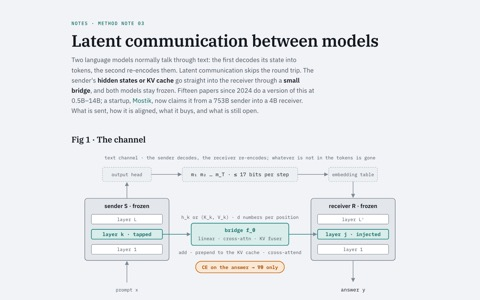
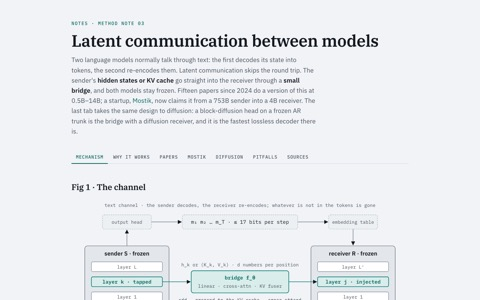
Latent communication note: split into tabs, add diffusion tab (DFlash, DFlare, AR-to-diffusion conversion)

diff --git a/notes/latent-communication.html b/notes/latent-communication.html
@@ -9,9 +9,10 @@
 <link rel="preconnect" href="https://fonts.gstatic.com" crossorigin>
 <link rel="stylesheet" href="https://fonts.googleapis.com/css2?family=IBM+Plex+Mono:wght@400;500;600&family=IBM+Plex+Sans:wght@400;500;600;700&family=IBM+Plex+Serif:wght@600&display=swap">
 <!--
-  Method note 03 — follows the template comment in mtp.html.
-  header → Fig 1 (the channel) → the math in three lines → why it is kept → Fig 2 (lineage) →
-  the papers (table) → Mostik against the literature → pitfalls → sources.
+  Method note 03 — follows the template comment in mtp.html, but split into tabs (.tabs/.panel in note.css;
+  the hash selects the tab, so /notes/latent-communication.html#diffusion deep-links).
+  header → tabs: mechanism (Fig 1 + math) · why it works (kept + Fig 2) · papers (table) · Mostik · diffusion (Fig 3 + table) · pitfalls · sources.
+  One shared <svg> at the top of .page holds the arrowhead marker, because a marker inside a hidden panel does not resolve.
   teal = the bridge / the thing being explained, amber = the loss / the claim under test, grey = frozen context.
 -->
 <link rel="stylesheet" href="/notes/note.css">
@@ -25,15 +26,27 @@
   <header>
     <p class="eyebrow"><a href="/notes/">Notes</a> · Method note 03</p>
     <h1>Latent communication between models</h1>
-    <p class="lede">Two language models normally talk through text: the first decodes its state into tokens, the second re-encodes them. Latent communication skips the round trip. The sender's <b>hidden states or KV cache</b> go straight into the receiver through a <b>small bridge</b>, and both models stay frozen. Fifteen papers since 2024 do a version of this at 0.5B–14B; a startup, <a href="https://mostik.ai/read-more">Mostik</a>, now claims it from a 753B sender into a 4B receiver. What is sent, how it is aligned, what it buys, and what is still open.</p>
+    <p class="lede">Two language models normally talk through text: the first decodes its state into tokens, the second re-encodes them. Latent communication skips the round trip. The sender's <b>hidden states or KV cache</b> go straight into the receiver through a <b>small bridge</b>, and both models stay frozen. Fifteen papers since 2024 do a version of this at 0.5B–14B; a startup, <a href="https://mostik.ai/read-more">Mostik</a>, now claims it from a 753B sender into a 4B receiver. The last tab takes the same design to diffusion: a block-diffusion head on a frozen AR trunk is the bridge with a diffusion receiver, and it is the fastest lossless decoder there is.</p>
   </header>
 
+  <svg width="0" height="0" style="position:absolute" aria-hidden="true"><defs><marker id="ah" viewBox="0 0 10 10" refX="9" refY="5" markerWidth="7" markerHeight="7" orient="auto"><path d="M0,0 L10,5 L0,10 z" fill="currentColor"/></marker></defs></svg>
+
+  <nav class="tabs" role="tablist" aria-label="Sections">
+    <button class="tab" role="tab" id="tab-mechanism" data-panel="mechanism" aria-selected="true" aria-controls="mechanism">Mechanism</button>
+    <button class="tab" role="tab" id="tab-lineage" data-panel="lineage" aria-selected="false" aria-controls="lineage" tabindex="-1">Why it works</button>
+    <button class="tab" role="tab" id="tab-papers" data-panel="papers" aria-selected="false" aria-controls="papers" tabindex="-1">Papers</button>
+    <button class="tab" role="tab" id="tab-mostik" data-panel="mostik" aria-selected="false" aria-controls="mostik" tabindex="-1">Mostik</button>
+    <button class="tab" role="tab" id="tab-diffusion" data-panel="diffusion" aria-selected="false" aria-controls="diffusion" tabindex="-1">Diffusion</button>
+    <button class="tab" role="tab" id="tab-pitfalls" data-panel="pitfalls" aria-selected="false" aria-controls="pitfalls" tabindex="-1">Pitfalls</button>
+    <button class="tab" role="tab" id="tab-sources" data-panel="sources" aria-selected="false" aria-controls="sources" tabindex="-1">Sources</button>
+  </nav>
+
+  <div class="panel" id="mechanism" role="tabpanel" aria-labelledby="tab-mechanism">
   <section>
     <h2>Fig 1 · The channel</h2>
     <figure>
       <div class="scroller">
       <svg viewBox="0 0 760 340" role="img" aria-label="Two frozen transformers side by side, a sender on the left and a receiver on the right. Along the top, the text channel: the sender's output head decodes tokens m1 to mT, at most about 17 bits per step, which the receiver's embedding table re-encodes. Through the middle, the latent channel: the sender's layer-k hidden states or KV cache pass through a small trained bridge and are injected into the receiver at layer j by addition, by prepending to the KV cache, or by cross-attention. The only trainable part is the bridge; the loss is the receiver's next-token cross-entropy on the answer.">
-        <defs><marker id="ah" viewBox="0 0 10 10" refX="9" refY="5" markerWidth="7" markerHeight="7" orient="auto"><path d="M0,0 L10,5 L0,10 z" fill="currentColor"/></marker></defs>
         <!-- text channel, top -->
         <text class="st2" x="380" y="22" text-anchor="middle">text channel · the sender decodes, the receiver re-encodes; whatever is not in the tokens is gone</text>
         <line class="edge" x1="125" y1="110" x2="125" y2="74"/>
@@ -85,7 +98,9 @@
     </div>
     <p style="margin-top:12px"><b>\(\theta\) is the only knob, and it is small.</b> Zero parameters when sender and receiver are the same model, about 1% of the combined pair in the Bicameral model, 3.8% of the receiver (264M) in XBridge. Everything else about the two models is untouched, which is the whole point: the bridge is retrained, not the models.</p>
   </section>
+  </div>
 
+  <div class="panel" id="lineage" role="tabpanel" aria-labelledby="tab-lineage">
   <section>
     <h2>Why it is kept</h2>
     <ul class="facts">
@@ -101,7 +116,6 @@
     <figure>
       <div class="scroller">
       <svg viewBox="0 0 760 400" role="img" aria-label="Two columns of five boxes joined by arrows. Left, representation-alignment results: model stitching 2015 and 2021, relative representations 2023, convergent spaces with the Platonic hypothesis 2024 and vec2vec 2025, affine maps between residual streams 2025, and hidden states holding what text drops 2026. Right, the channels each result licenses: trained projectors and fusers, training-free alignment, cross-family bridges, big sender to small receiver, and Mostik's September 2026 claim, marked amber as unverified.">
-        <defs><marker id="ah2" viewBox="0 0 10 10" refX="9" refY="5" markerWidth="7" markerHeight="7" orient="auto"><path d="M0,0 L10,5 L0,10 z" fill="currentColor"/></marker></defs>
         <text class="st" x="20" y="24">why a cheap map should exist</text>
         <text class="st" x="420" y="24">what gets built on it</text>
         <!-- row 1 -->
@@ -159,7 +173,9 @@
       <figcaption>The left column is the older representation-learning result that makes each channel plausible: two networks trained separately end up with spaces that a linear (often orthogonal) map joins. Stitching is the direct ancestor of the trained bridges; relative representations and Procrustes-style alignment are the ancestor of the training-free ones; the Platonic and vec2vec results are what make cross-family bridges credible; the affine-map paper is the cross-<em>size</em> result. The last row is the interpretability argument for why the channel carries anything worth sending, and the amber box is the claim this note is checking.</figcaption>
     </figure>
   </section>
+  </div>
 
+  <div class="panel" id="papers" role="tabpanel" aria-labelledby="tab-papers">
   <section>
     <h2>The papers</h2>
     <div class="scroller">
@@ -186,7 +202,9 @@
     </div>
     <p class="foot">Latent chain-of-thought inside one model (Coconut, Hao et al. 2024) is the same trick applied step to step rather than model to model; the survey keeps the two apart, and so does this table.</p>
   </section>
+  </div>
 
+  <div class="panel" id="mostik" role="tabpanel" aria-labelledby="tab-mostik">
   <section>
     <h2>Mostik against the literature</h2>
     <ul class="facts">
@@ -196,7 +214,90 @@
       <li><b>The compute claim needs the prefill counted.</b> The 753B sender still runs over the prompt every time. LLM-to-SLM accounts for this honestly: the saving is in decoding only, so “2.5× cheaper than a mid-sized model” is true only for long generations after short prompts, if at all.</li>
     </ul>
   </section>
+  </div>
 
+  <div class="panel" id="diffusion" role="tabpanel" aria-labelledby="tab-diffusion">
+  <section>
+    <h2>Two readings of “AR to diffusion”</h2>
+    <p>“Converting” can mean rewriting the AR weights into a diffusion LM, or keeping the AR model frozen and attaching a diffusion decoder that reads its latents. The bridge design maps onto the second cleanly, and that version already exists: it is <b>DFlash</b>, the fastest lossless speculative decoder published, and it is the <a href="/notes/mtp.html">MTP head</a> widened from one token to a block.</p>
+    <figure>
+      <div class="scroller">
+      <svg viewBox="0 0 760 290" role="img" aria-label="A frozen target LLM on the left with a few tapped layers. Their hidden states pass through a learned fusion, the bridge, into a small block-diffusion drafter on the right, which takes k mask slots and fills all k tokens in one bidirectional forward pass. The target then verifies the block and accepts the longest matching prefix, so decoding stays lossless. With k equal to one and a single layer this is the multi-token-prediction head.">
+        <!-- target -->
+        <rect class="bg" x="20" y="70" width="200" height="140" rx="6"/>
+        <text class="sh" x="120" y="92" text-anchor="middle">target LLM · frozen</text>
+        <rect class="bx" x="35" y="106" width="170" height="22" rx="3"/><text class="st2" x="120" y="121" text-anchor="middle">layer L</text>
+        <rect class="bk" x="35" y="138" width="170" height="22" rx="3"/><text class="stk" x="120" y="153" text-anchor="middle">tapped layers ℓ₁…ℓ_m</text>
+        <rect class="bx" x="35" y="170" width="170" height="22" rx="3"/><text class="st2" x="120" y="185" text-anchor="middle">layer 1</text>
+        <line class="edge" x1="120" y1="250" x2="120" y2="212"/><text class="st2" x="120" y="268" text-anchor="middle">prompt + accepted tokens</text>
+        <!-- bridge -->
+        <line class="edge k" x1="205" y1="149" x2="258" y2="149"/>
+        <rect class="bk" x="260" y="121" width="200" height="56" rx="5"/>
+        <text class="stk" x="360" y="142" text-anchor="middle">fuse tapped layers</text>
+        <text class="st2" x="360" y="160" text-anchor="middle">learned mix · per draft layer</text>
+        <line class="edge k" x1="460" y1="149" x2="488" y2="149"/>
+        <text class="st2" x="360" y="200" text-anchor="middle">the bridge</text>
+        <!-- drafter -->
+        <rect class="bk" x="490" y="70" width="250" height="140" rx="6"/>
+        <text class="stk" x="615" y="92" text-anchor="middle">block-diffusion drafter</text>
+        <text class="st2" x="615" y="108" text-anchor="middle">few layers · bidirectional block</text>
+        <rect class="bx" x="505" y="164" width="220" height="24" rx="3"/><text class="st" x="615" y="180" text-anchor="middle">[M] [M] … [M] · k mask slots</text>
+        <line class="edge k" x1="615" y1="164" x2="615" y2="146"/>
+        <rect class="bx" x="505" y="120" width="220" height="24" rx="3"/><text class="st" x="615" y="136" text-anchor="middle">x̂_{t+1} … x̂_{t+k} · one pass</text>
+        <line class="edge" x1="615" y1="70" x2="615" y2="48"/>
+        <rect class="ba" x="470" y="20" width="270" height="26" rx="13"/><text class="sta" x="605" y="37" text-anchor="middle">target verifies → longest match kept</text>
+        <text class="st2" x="615" y="232" text-anchor="middle">k = 1 and one layer: the MTP head</text>
+        <text class="st2" x="615" y="268" text-anchor="middle">lossless: the target's own prediction decides</text>
+      </svg>
+      </div>
+      <figcaption>DFlash's arrangement, drawn in the vocabulary of Fig 1. The target model is the sender; a learned mix of a few of its layers is the bridge; the receiver is a small block-diffusion model that fills <code>k</code> mask slots in one non-causal forward pass instead of <code>k</code> autoregressive draft steps. The target verifies the block as in ordinary speculative decoding, so the output distribution is unchanged. DFlare keeps the design and gives every draft layer its own mix of target layers instead of one shared fusion.</figcaption>
+    </figure>
+  </section>
+
+  <section>
+    <h2>Attach, don't convert</h2>
+    <ul class="facts">
+      <li><b>DFlash, ICML 2026.</b> A lightweight block-diffusion drafter conditioned on context features from the target. Over 6× lossless speedup, up to 2.5× more than EAGLE-3, because one forward pass drafts the whole block where EAGLE-3 needs one per token.</li>
+      <li><b>DFlare, June 2026.</b> Per-layer fusion: each draft layer attends to its own learnable combination of target layers, trained on 2.4M samples instead of DFlash's 800K. 5.5× on Qwen3-4B and Qwen3-8B, 3.9× on GPT-OSS-20B.</li>
+      <li><b>Why it sidesteps conversion.</b> The trunk stays causal and frozen, so nothing is lost to the bidirectional-attention switch or to denoising at random mask rates. Only the head is trained, and the AR model verifies, so quality is exact by construction.</li>
+      <li><b>It inherits the bridges' open questions.</b> The head is fit to the trunk's states and goes stale when the trunk is post-trained, MTP healing again. A learned gate could let the diffusion head emit easy spans unverified. RLVR on the head with the trunk frozen is untried.</li>
+    </ul>
+  </section>
+
+  <section>
+    <h2>If you do convert</h2>
+    <div class="scroller">
+    <table>
+      <thead><tr><th>Method</th><th>Start</th><th>Budget</th><th>Trick</th><th>Result</th></tr></thead>
+      <tbody>
+        <tr><td><a href="https://github.com/HKUNLP/DiffuLLaMA">DiffuGPT / DiffuLLaMA</a> · ICLR 2025</td><td>GPT-2, LLaMA-2 7B</td><td>continued pretraining, tens of billions of tokens</td><td>attention-mask annealing from causal to full; shifted targets</td><td>first 7B-class adapted diffusion LM</td></tr>
+        <tr><td><a href="https://arxiv.org/abs/2508.15487">Dream 7B</a> · 2025</td><td>Qwen2.5-7B</td><td>580B tokens</td><td>shift operation kept from AR; context-adaptive token-level noise rescheduling</td><td>strongest open 7B full-attention diffusion LM at release</td></tr>
+        <tr><td><a href="https://arxiv.org/abs/2510.06303">SDAR</a> · 2025</td><td>Qwen3 1.7B – 30B-A3B</td><td>50B tokens at 30B</td><td>blockwise diffusion, brief adaptation after AR pretraining</td><td>AR-level quality with parallel decoding inside blocks</td></tr>
+        <tr><td><a href="https://arxiv.org/abs/2509.26328">Fast-dLLM v2</a> · 2025</td><td>Qwen2.5</td><td>≈1B tokens</td><td>block diffusion with a complementary attention mask; hierarchical block + sub-block KV cache</td><td>matches AR accuracy, up to 2.5× faster than AR decoding; 500× less adaptation data than Dream</td></tr>
+        <tr><td><a href="https://arxiv.org/abs/2512.15745">LLaDA 2.0</a> · Dec 2025</td><td>Ling AR models, 16B and 100B</td><td>warmup–stable–decay schedule</td><td>treat the AR model as block diffusion with block size 1, grow it 1 → 4 → 32 → 64 → 4096, train, then decay back to small blocks for inference</td><td>first 100B diffusion LM</td></tr>
+        <tr><td><a href="https://arxiv.org/abs/2512.06776">NBDiff-7B</a> · Dec 2025</td><td>off-the-shelf 7B AR</td><td>—</td><td>causal attention kept on the prefix; AR guidance during adaptation; gradual block growth</td><td>state of the art among 7B diffusion LMs</td></tr>
+        <tr><td><a href="https://arxiv.org/abs/2605.06885">Don't Retrain, Align</a> · May 2026</td><td>any AR model, frozen as teacher; same architecture</td><td>—</td><td>masked denoising plus a per-layer cosine alignment of the diffusion model's hidden states to the frozen AR model's</td><td>up to 4× faster conversion, largest gain in low-data regimes</td></tr>
+      </tbody>
+    </table>
+    </div>
+    <ul class="facts" style="margin-top:16px">
+      <li><b>The trend is “keep the causal prefix, grow the block”.</b> Every 2025–26 method treats the AR model as block diffusion with block size 1 and widens it. The adaptation budget fell from 580B tokens to about 1B in a year, so knowledge transfer is no longer the bottleneck.</li>
+      <li><b>Alignment is already a conversion regularizer, in its simplest form only.</b> Don't Retrain, Align uses the identity map, the same architecture, every layer. Untried: an affine or cross-size bridge (align a small diffusion model to a large AR model's states, the size-asymmetric transfer the survey on the Papers tab calls unstudied), selective layers, and the uniform-noise setting. Von Rütte et al. find uniform diffusion more parameter-heavy than masked, which suggests its representations sit further from AR's, so whether an AR teacher helps or hurts under GIDD-style noise is open.</li>
+      <li><b>A bridge alone converts nothing.</b> It transports state between two working models; it does not change how either one generates. The hard part of conversion is the factorization, not the representation.</li>
+    </ul>
+  </section>
+
+  <section>
+    <h2>Verdict</h2>
+    <ul class="facts">
+      <li><b>Most promising: the attachment.</b> A diffusion head on a frozen AR trunk is where the bridge design is cleanest and the wins are already lossless and large.</li>
+      <li><b>Next: alignment beyond the identity map.</b> Cross-size, selective-layer, and non-masked-noise versions of Don't Retrain, Align are open and cheap to run.</li>
+      <li><b>Caveat.</b> The speedups are small-batch, memory-bound numbers, the same regime where MTP pays. Diffusion LMs still do not beat AR plus speculative decoding per FLOP at scale, and parallel decoding has its own quality trade-offs (ParallelBench).</li>
+    </ul>
+  </section>
+  </div>
+
+  <div class="panel" id="pitfalls" role="tabpanel" aria-labelledby="tab-pitfalls">
   <section>
     <h2>Pitfalls</h2>
     <ul class="facts">
@@ -208,7 +309,9 @@
       <li><b>Latent communication is not latent reasoning.</b> Coconut-style continuous thoughts flow step to step inside one model; these methods flow agent to agent. Papers and product pages blur the two.</li>
     </ul>
   </section>
+  </div>
 
+  <div class="panel" id="sources" role="tabpanel" aria-labelledby="tab-sources">
   <section>
     <h2>Sources</h2>
     <div class="src">
@@ -221,9 +324,33 @@
       <div><a href="https://arxiv.org/abs/2506.06609">Transferring Linear Features Across Language Models With Model Stitching</a> — Chen, Merullo, Stolfo, Pavlick, NeurIPS 2025 <span>· <a href="https://www.alphaxiv.org/abs/2506.06609">alphaXiv</a></span></div>
       <div><a href="https://arxiv.org/abs/2209.15430">Relative representations</a> (Moschella et al. 2023) · <a href="https://arxiv.org/abs/2405.07987">The Platonic Representation Hypothesis</a> (Huh et al. 2024) · <a href="https://arxiv.org/abs/2505.12540">vec2vec</a> (Jha et al. 2025) · <a href="https://arxiv.org/abs/2603.18908">Characterizing Linear Alignment Across Language Models</a> (2026) · <a href="https://arxiv.org/abs/2106.07682">Revisiting Model Stitching</a> (Bansal et al. 2021) · <a href="https://arxiv.org/abs/1411.5908">Lenc &amp; Vedaldi 2015</a></div>
       <div><a href="https://arxiv.org/abs/2604.12493">Latent Planning Emerges with Scale</a> — Hanna &amp; Ameisen, ICLR 2026 · <a href="https://transformer-circuits.pub/2026/workspace/index.html">Verbalizable Representations Form a Global Workspace in Language Models</a> — Gurnee et al., Jul 2026 · <a href="https://arxiv.org/abs/2412.06769">Coconut</a> — Hao et al. 2024, latent CoT within one model</div>
+      <div><b>Diffusion tab.</b> <a href="https://arxiv.org/abs/2602.06036">DFlash: Block Diffusion for Flash Speculative Decoding</a> — Chen, Liang, Liu, ICML 2026 <span>· <a href="https://www.alphaxiv.org/abs/2602.06036">alphaXiv</a> · <a href="https://github.com/z-lab/dflash">code</a></span> · <a href="https://arxiv.org/abs/2606.02091">DFlare</a> (Jun 2026) · <a href="https://arxiv.org/abs/2605.06885">Don't Retrain, Align</a> — Peng, Fox, Zhang, Tong, May 2026 <span>· <a href="https://www.alphaxiv.org/abs/2605.06885">alphaXiv</a></span></div>
+      <div><a href="https://arxiv.org/abs/2509.26328">Fast-dLLM v2</a> · <a href="https://arxiv.org/abs/2512.15745">LLaDA 2.0</a> · <a href="https://arxiv.org/abs/2510.06303">SDAR</a> · <a href="https://arxiv.org/abs/2512.06776">From Next-Token to Next-Block (NBDiff)</a> · <a href="https://arxiv.org/abs/2508.15487">Dream 7B</a> · <a href="https://github.com/HKUNLP/DiffuLLaMA">DiffuGPT / DiffuLLaMA</a> (ICLR 2025) · <a href="https://arxiv.org/abs/2512.10858">Scaling Behavior of Discrete Diffusion LMs</a> — von Rütte et al., ICLR 2026 · <a href="https://arxiv.org/pdf/2510.04767">ParallelBench</a></div>
     </div>
   </section>
+  </div>
 
 </div>
+<script>
+(function(){
+  var tabs=[].slice.call(document.querySelectorAll('.tab'));
+  var panels=[].slice.call(document.querySelectorAll('.panel'));
+  function show(id, setHash){
+    if(!panels.some(function(p){return p.id===id})) id=panels[0].id;
+    panels.forEach(function(p){p.hidden=(p.id!==id);});
+    tabs.forEach(function(t){var on=t.getAttribute('data-panel')===id; t.setAttribute('aria-selected',on?'true':'false'); t.tabIndex=on?0:-1;});
+    if(setHash && history.replaceState) history.replaceState(null,'','#'+id);
+  }
+  tabs.forEach(function(t,i){
+    t.addEventListener('click',function(){show(t.getAttribute('data-panel'),true);});
+    t.addEventListener('keydown',function(e){
+      var d=e.key==='ArrowRight'?1:e.key==='ArrowLeft'?-1:0; if(!d) return;
+      var n=tabs[(i+d+tabs.length)%tabs.length]; n.focus(); show(n.getAttribute('data-panel'),true); e.preventDefault();
+    });
+  });
+  window.addEventListener('hashchange',function(){show(location.hash.slice(1),false);});
+  show(location.hash.slice(1)||panels[0].id,false);
+})();
+</script>
 </body>
 </html>

diff --git a/notes/index.html b/notes/index.html
@@ -77,10 +77,12 @@ footer a{color:inherit}
     <a class="thumb-link" href="/notes/latent-communication.html"><img class="thumb" src="/notes/thumbs/latent.jpg" alt="" width="480" height="300" loading="lazy"></a>
     <div class="body">
       <h2><a href="/notes/latent-communication.html">Latent communication between models</a></h2>
-    <p class="desc">Two frozen models, a small trained bridge, hidden states or KV cache instead of text. Fifteen papers from CIPHER to StateBridge in one table, the three fusion forms, the representation-alignment lineage that says why a linear bridge should exist, and Mostik's 753B→4B claim read against it.</p>
+    <p class="desc">Two frozen models, a small trained bridge, hidden states or KV cache instead of text. Tabbed: the mechanism and its math, the representation-alignment lineage that says why a linear bridge should exist, fifteen papers from CIPHER to StateBridge in one table, Mostik's 753B→4B claim read against it, and a diffusion tab where DFlash turns out to be the same design with a block-diffusion receiver on a frozen AR trunk.</p>
     <div class="meta"><span class="kind">note</span><span>2026-09</span>
+      <a href="/notes/latent-communication.html#mechanism">Mechanism</a><a href="/notes/latent-communication.html#papers">Papers</a><a href="/notes/latent-communication.html#mostik">Mostik</a><a href="/notes/latent-communication.html#diffusion">Diffusion</a>
       <a href="https://arxiv.org/abs/2510.03215">Cache-to-Cache</a><a class="alpha" href="https://www.alphaxiv.org/abs/2510.03215">alphaXiv</a>
-      <a href="https://arxiv.org/abs/2606.05711">Beyond Tokens survey</a><a class="alpha" href="https://www.alphaxiv.org/abs/2606.05711">alphaXiv</a>
+      <a href="https://arxiv.org/abs/2602.06036">DFlash</a><a class="alpha" href="https://www.alphaxiv.org/abs/2602.06036">alphaXiv</a>
+      <a href="https://arxiv.org/abs/2606.05711">Beyond Tokens survey</a>
       <a href="https://mostik.ai/read-more">Mostik</a>
     </div>
     </div>

diff --git a/notes/note.css b/notes/note.css
@@ -38,3 +38,11 @@
 .math .katex-display{margin:2px 0 4px; text-align:left;}
 .math .katex-display>.katex{text-align:left;}
 .math .c{display:block; margin:0 0 12px;}
+
+/* tabs (opt-in; first used by latent-communication.html): a .tabs bar of role=tab buttons switching .panel blocks by id, hash-addressable */
+.tabs{display:flex; flex-wrap:wrap; gap:2px; border-bottom:1px solid var(--rule); position:sticky; top:0; z-index:2; background:var(--paper); padding-top:6px; margin-top:-12px;}
+.tab{font-family:"IBM Plex Mono",monospace; font-size:12px; font-weight:500; letter-spacing:.08em; text-transform:uppercase; color:var(--ink-2); background:none; border:0; border-bottom:2px solid transparent; margin-bottom:-1px; padding:9px 12px; cursor:pointer;}
+.tab:hover{color:var(--ink);} .tab[aria-selected="true"]{color:var(--keep); border-bottom-color:var(--keep);}
+.tab:focus-visible{outline:2px solid var(--keep-line); outline-offset:-2px; border-radius:4px;}
+.panel{display:flex; flex-direction:column; gap:44px;} .panel[hidden]{display:none!important}
+@media (max-width:640px){ .panel{gap:32px;} .tab{padding:8px 9px; font-size:11px;} }
